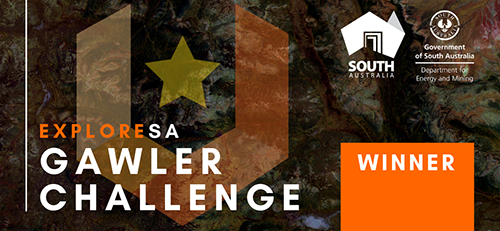
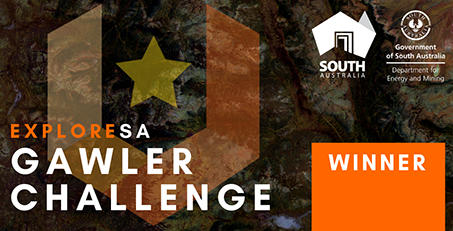
Updates

diff --git a/index.html b/index.html
@@ -46,13 +46,14 @@
               <p><b><i>Hyperspectral Remote Sensing</i></b></p>
               <p>Hyperspectral sensors capture geological information at scales ranging from planets to minerals. 
               As with any "big data", processing and corrections are a battle; but results can be very worthwhile! </p>
-
+                <a href="https://www.frontiersin.org/journals/earth-science/articles/10.3389/feart.2024.1433662/full" target="_blank" rel="noopener noreferrer">
+                <image class="pubicon" alt="Hyperspectral drillcores" src="img/pub/hsi/realtimeHSI_24.png" loading="lazy"></image></a>
+                <a href="https://www.mdpi.com/2072-4292/16/12/2089" target="_blank" rel="noopener noreferrer">
+                  <image class="pubicon" alt="Hyperspectral satellites" src="img/pub/hsi/satelliteHSI_24.png" loading="lazy"></image></a>
                 <a href="https://www.researchgate.net/publication/351791857_Multi-scale_multi-sensor_data_integration_for_automated_3-D_geological_mapping" target="_blank" rel="noopener noreferrer">
-                  <image class="pubicon" alt="Hyperspectral processing for geology" src="img/pub/hsi/hylite_21.png" loading="lazy"></image></a>
-                <a href="https://www.researchgate.net/publication/357205311_Mineralogical_Mapping_with_Accurately_Corrected_Shortwave_Infrared_Hyperspectral_Data_Acquired_Obliquely_from_UAVs" target="_blank" rel="noopener noreferrer">
-                  <image class="pubicon" alt="Hyperspectral drones" src="img/pub/hsi/uavhsi_21.png" loading="lazy"></image></a>
+                  <image class="pubicon" alt="Hyperspectral outcrops" src="img/pub/hsi/hylite_21.png" loading="lazy"></image></a>
                 <a href="https://www.researchgate.net/publication/353721641_A_Novel_and_Open-Source_Illumination_Correction_for_Hyperspectral_Digital_Outcrop_Models" target="_blank" rel="noopener noreferrer">
-                  <image class="pubicon" alt="Illuminatino correction" src="img/pub/hsi/topocorr_21.png" loading="lazy"></image></a>
+                  <image class="pubicon" alt="Illumination correction" src="img/pub/hsi/topocorr_21.png" loading="lazy"></image></a>
             </div>
           </div>
 
@@ -62,7 +63,8 @@
               <p>Drones allow earth observation at unprecedented resolution and accuracy. But, extracting
                 meaningful information from these datasets, and so building scientific understanding, remains
                 a significant challenge.</p>
-
+                <a href="https://www.researchgate.net/publication/357205311_Mineralogical_Mapping_with_Accurately_Corrected_Shortwave_Infrared_Hyperspectral_Data_Acquired_Obliquely_from_UAVs" target="_blank" rel="noopener noreferrer">
+                  <image class="pubicon" alt="Hyperspectral drones" src="img/pub/uav/uavhsi_21.png" loading="lazy"></image></a>
                 <a href="https://www.researchgate.net/publication/267630688_Ground-based_and_UAV-Based_photogrammetry_A_multi-scale_high-resolution_mapping_tool_for_Structural_Geology_and_Paleoseismology" target="_blank" rel="noopener noreferrer">
                   <image class="pubicon" alt="Review of UAV photogrammetry in structural geology" src="img/pub/sg/bemis14.png" loading="lazy"></image></a>
                 <a href="https://www.researchgate.net/publication/319129566_Rapid_semi-automatic_fracture_and_contact_mapping_for_point_clouds_images_and_geophysical_data" target="_blank" rel="noopener noreferrer">
@@ -84,10 +86,28 @@
                 <image class="pubicon" alt="dyke thickness records volcano stress" src="img/pub/v/thiele20.png" loading="lazy"></image></a>
               <a href="https://www.researchgate.net/publication/351639195_Reactivation_of_Magma_Pathways_Insights_From_Field_Observations_Geochronology_Geomechanical_Tests_and_Numerical_Models" target="_blank" rel="noopener noreferrer">
                 <image class="pubicon" alt="fracture mechanics of multiple-dykes" src="img/pub/v/thiele21.png" loading="lazy"></image></a>
+              <a href="https://www.nature.com/articles/s43247-023-01046-3" target="_blank" rel="noopener noreferrer">
+                <image class="pubicon" alt="volcano collapse" src="img/pub/v/thiele23.png" loading="lazy"></image></a>
           </div>
         </div>
 
-          <div class="swiper-slide centerbox">
+        <div class="swiper-slide centerbox">
+          <div class="item-text">
+        <p><b><i>Geometallurgy and Mineral Systems</i></b></p>
+        <p>Metalliferous raw materials play a key role in modern society, from renewable energy to AI. A step-change is needed to ensure
+            fair and environmentally acceptable supply of these critical elements, driven by scientific and technological developments as well as new attitudes and business models.</p>
+            <a href="https://pubs.geoscienceworld.org/segweb/segdiscovery/article-abstract/doi/10.5382/Geo-and-Mining-26/651694/Geometallurgy-Future-Directions?redirectedFrom=fulltext" target="_blank" rel="noopener noreferrer">
+              <image class="pubicon" alt="volcano collapse" src="img/pub/geomet/Tusa2025.png" loading="lazy"></image></a>
+            <a href="https://www.nature.com/articles/s41561-024-01587-y" target="_blank" rel="noopener noreferrer">
+              <image class="pubicon" alt="thermal imaging of volcan de colima lava dome" src="img/pub/geomet/Frenzel25.png" loading="lazy"></image></a>
+            <a href="https://egusphere.copernicus.org/preprints/2024/egusphere-2024-3448/" target="_blank" rel="noopener noreferrer">
+              <image class="pubicon" alt="dyke thickness records volcano stress" src="img/pub/geomet/Kamath25.png" loading="lazy"></image></a>
+            <a href="https://onlinelibrary.wiley.com/doi/10.1111/phor.12457" target="_blank" rel="noopener noreferrer">
+              <image class="pubicon" alt="fracture mechanics of multiple-dykes" src="img/pub/geomet/Kirsch23.png" loading="lazy"></image></a>
+        </div>
+      </div>
+
+      <div class="swiper-slide centerbox">
             <div class="item-text">
               <p><b><i>Structural Geology</i></b></p>
               <p>One of the oldest geoscience disciplines, structural geology is key to understanding
@@ -99,8 +119,10 @@
                    <image class="pubicon" alt="Drone photogrammetry for structural geology" src="img/pub/sg/bemis14.png" loading="lazy"></image></a>
                  <a href="https://www.researchgate.net/publication/331630711_Extraction_of_high-resolution_structural_orientations_from_digital_data_A_Bayesian_approach" target="_blank" rel="noopener noreferrer">
                    <image class="pubicon" alt="Bayesian plane fitting for structural geology" src="img/pub/sg/thiele19.jpg" loading="lazy"></image></a>
+                 <a href="https://www.sciencedirect.com/science/article/pii/S037565052400186X?via%3Dihub" target="_blank" rel="noopener noreferrer">
+                    <image class="pubicon" alt="Bayesian plane fitting for structural geology" src="img/pub/sg/thiele25.png" loading="lazy"></image></a>
             </div>
-          </div>
+      </div>
 
           <div class="swiper-slide centerbox">
             <div class="item-text">
@@ -115,6 +137,8 @@
                   <image class="pubicon" alt="Topology of geology 2" src="img/pub/3d/thiele16b.jpg" loading="lazy"></image></a>
                 <a href="https://www.researchgate.net/publication/298144068_Pynoddy_10_An_experimental_platform_for_automated_3-D_kinematic_and_potential_field_modelling" target="_blank" rel="noopener noreferrer">
                   <image class="pubicon" alt="PyNoddy 3D modelling" src="img/pub/3d/wellmann16.png" loading="lazy"></image></a>
+                <a href="https://ieeexplore.ieee.org/stamp/stamp.jsp?tp=&arnumber=10347274" target="_blank" rel="noopener noreferrer">
+                    <image class="pubicon" alt="Tinto benchmark" src="img/pub/3d/afifi2024.png" loading="lazy"></image></a>
             </div>
           </div> </div>
           <div class="swiper-pagination swiper-pagination-h"></div>
@@ -150,8 +174,10 @@
                   with the mineral systems paradigm. But, naive approaches tend to fail; expert domain knowledge is
                   still critical to ensure meaningful results. I translate geoscience into data science to maximise success.
                 </p>
-                <a href="https://unearthed.solutions/u/competitions/exploresa" target="_blank" rel="noopener noreferrer">
-                  <image class="mousepop" alt="Gawler challenge winner" src="img/gc.png" style="max-width:250px" loading="lazy"></image></a>
+                <a href="https://unearthed.solutions/news/introducing-winners-exploresa-gawler-challenge" target="_blank" rel="noopener noreferrer">
+                  <image class="mousepop" alt="Gawler challenge winner" src="img/gc.png" style="max-height:120px" loading="lazy"></image></a>
+                  <a href="https://www.humyn.ai/future-explorers" target="_blank" rel="noopener noreferrer">
+                    <image class="mousepop" alt="Future explorers winner" src="img/fec.png" style="max-height:120px" loading="lazy"></image></a>
               </div>
             </div>
 
@@ -193,7 +219,7 @@
       <!-- Page 1 -->
       <div class="swiper-slide"> <div class="horizontal-bar vcenter">
         <div class="title-text">
-            <p><b>Web apps</b></p>
+            <p><b>Software and web apps</b></p>
         </div>
         <div class="swiper-container swiper-container-h"><div class="swiper-wrapper">
 
@@ -216,6 +242,39 @@
                 <p><b>iSpec</b></p>
                 <p><i>A hyperspectral search engine</i> </p>
               </div></div></div>
+              
+              <div class="swiper-slide centerbox">
+                <div class="">
+                <a href="https://github.com/hifexplo/hylite" target="_blank" rel="noopener noreferrer">
+                <image class="large-icon mousepop" alt="App1" src="./img/hylite.png" loading="lazy"></image>
+                </a>
+                <div class="item-text">
+                <p><b>hylite</b></p>
+                <p><i>Hyperspectral data analysis in python</i> </p>
+              </div></div></div>
+
+              <div class="swiper-slide centerbox">
+                <div class="">
+                <a href="https://github.com/samthiele/napari-hippo" target="_blank" rel="noopener noreferrer">
+                <image class="large-icon mousepop" alt="App1" src="./img/hippo.png" loading="lazy"></image>
+                </a>
+                <div class="item-text">
+                <p><b>Hippo</b></p>
+                <p><i>Hyperspectral analysis in Napari</i> </p>
+              </div></div></div>
+              
+
+              <div class="swiper-slide centerbox">
+                <div class="">
+                <a href="https://github.com/samthiele/napari-hippo" target="_blank" rel="noopener noreferrer">
+                <image class="large-icon mousepop" alt="App1" src="./img/hippo.png" loading="lazy"></image>
+                </a>
+                <div class="item-text">
+                <p><b>Compass</b></p>
+                <p><i>Digital outcrop mapping in CloudCompare and QGIS</i> </p>
+              </div></div></div>
+
+
 
           </div>
           <div class="swiper-pagination swiper-pagination-h"></div>
